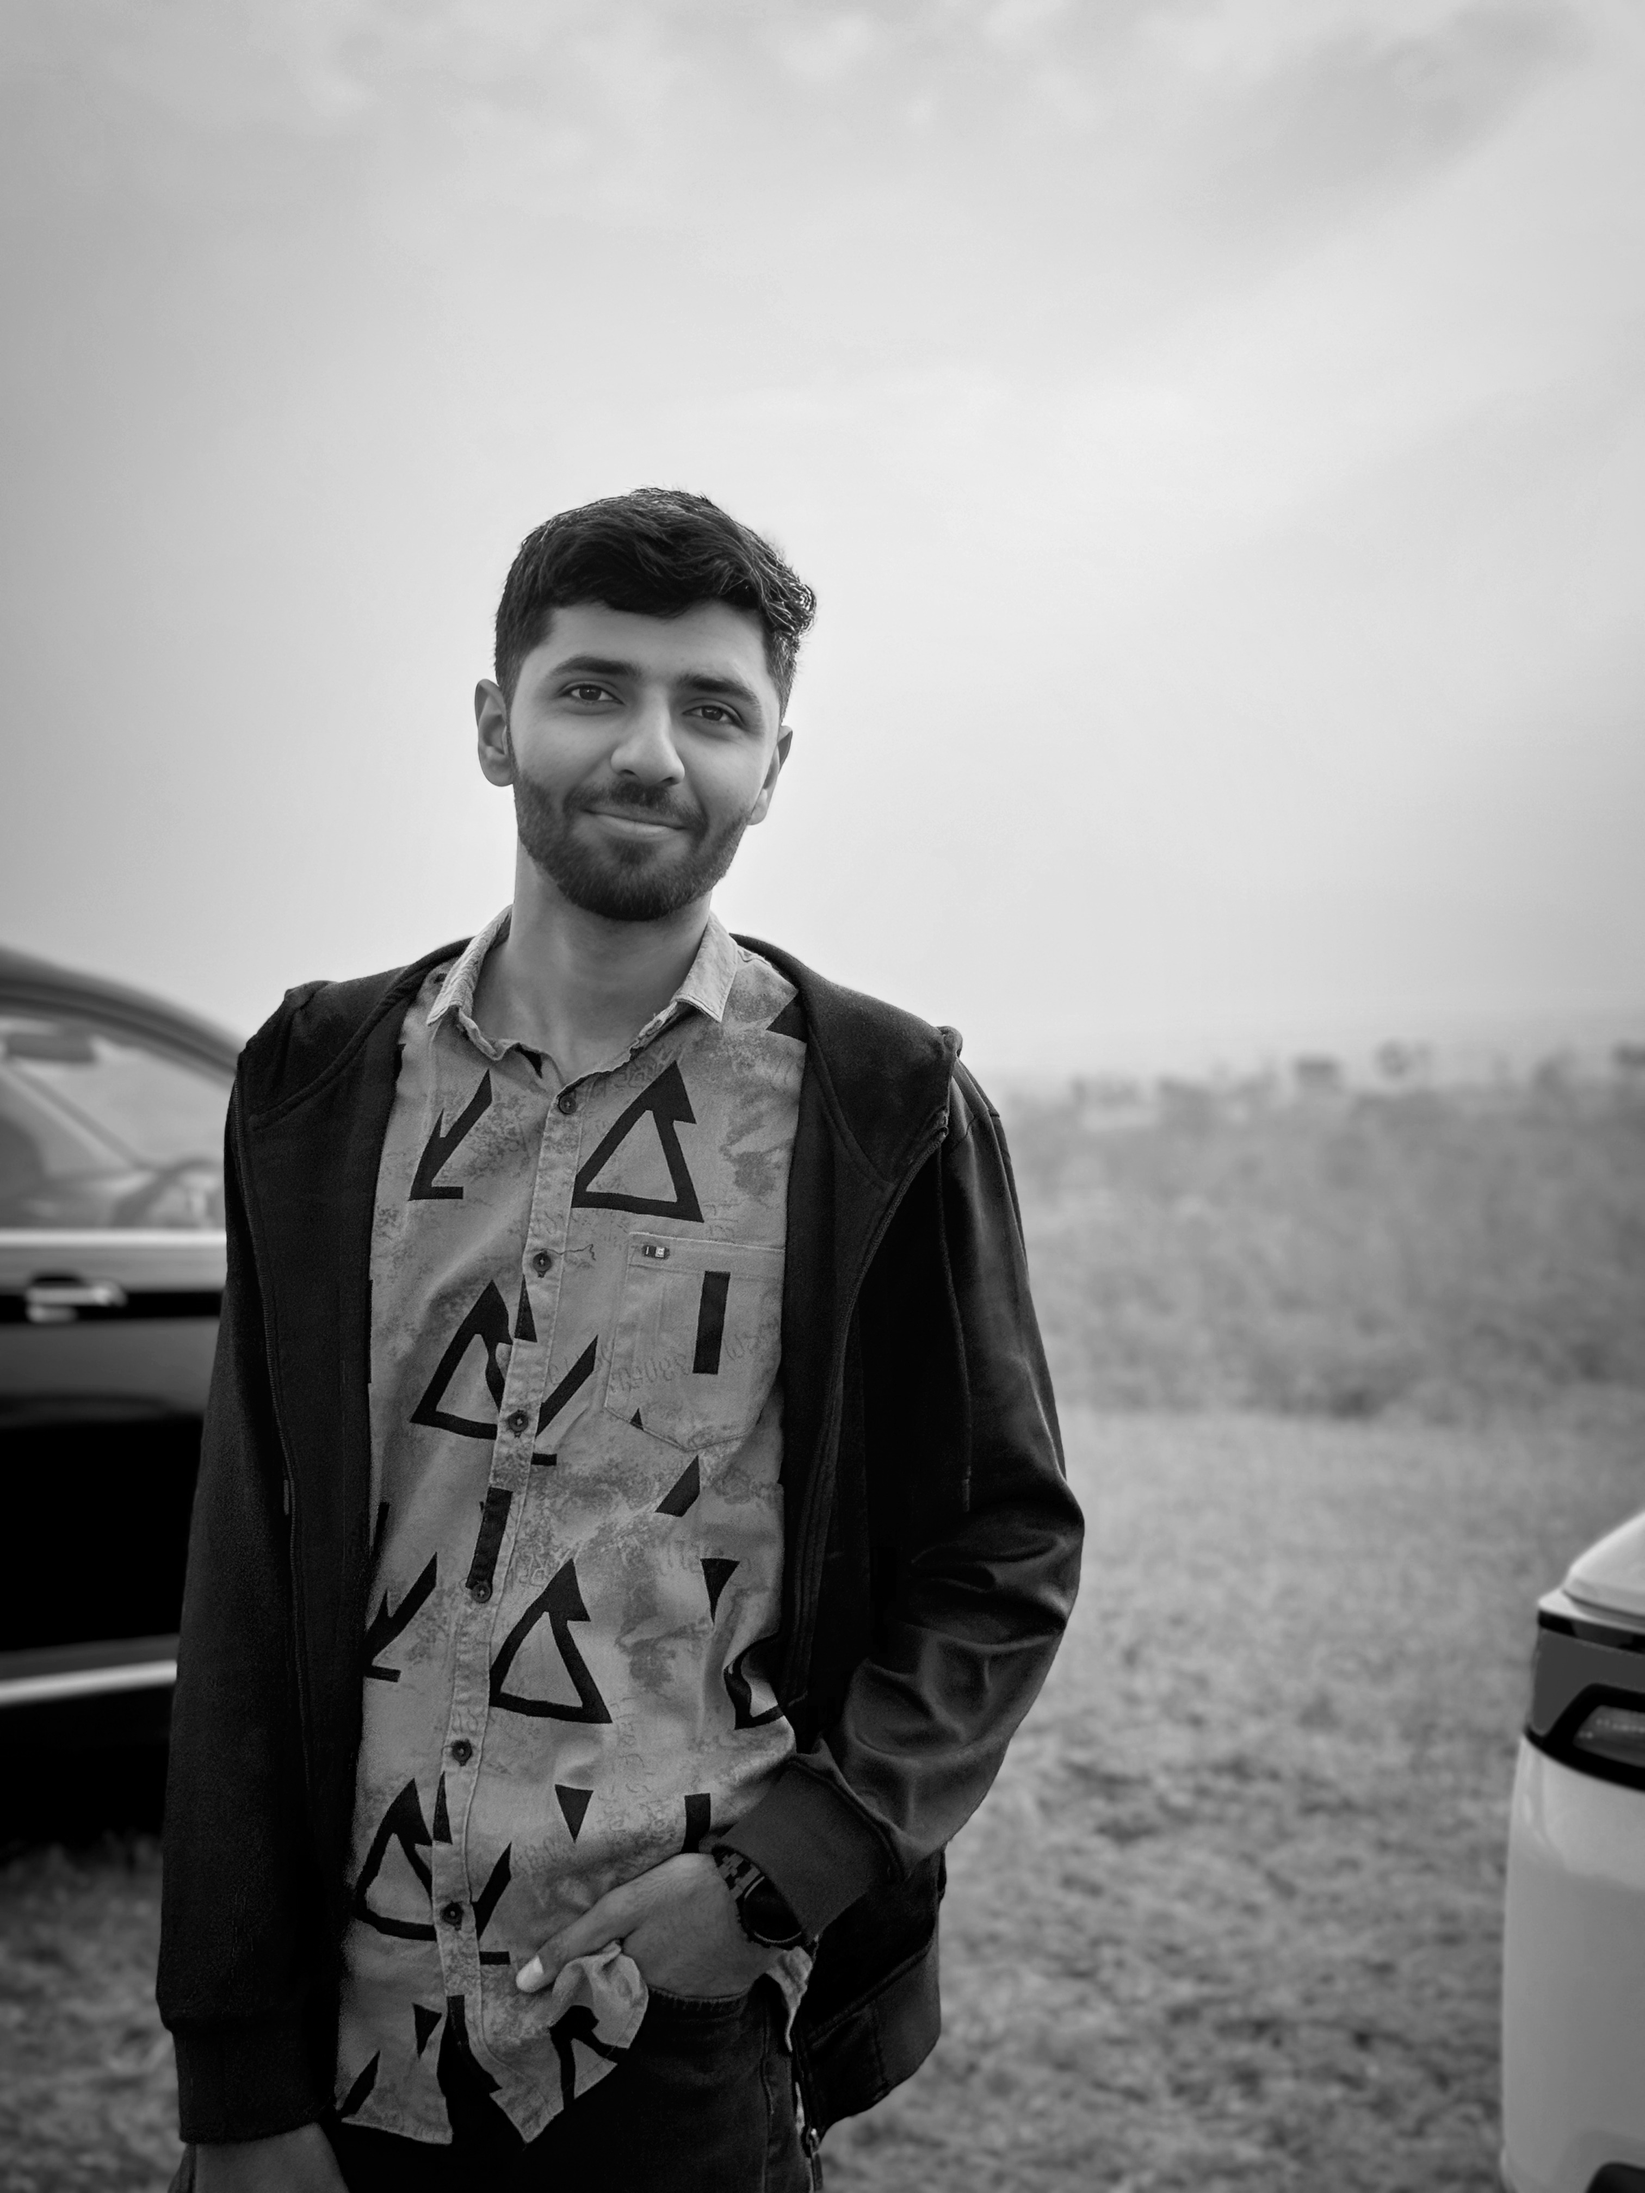
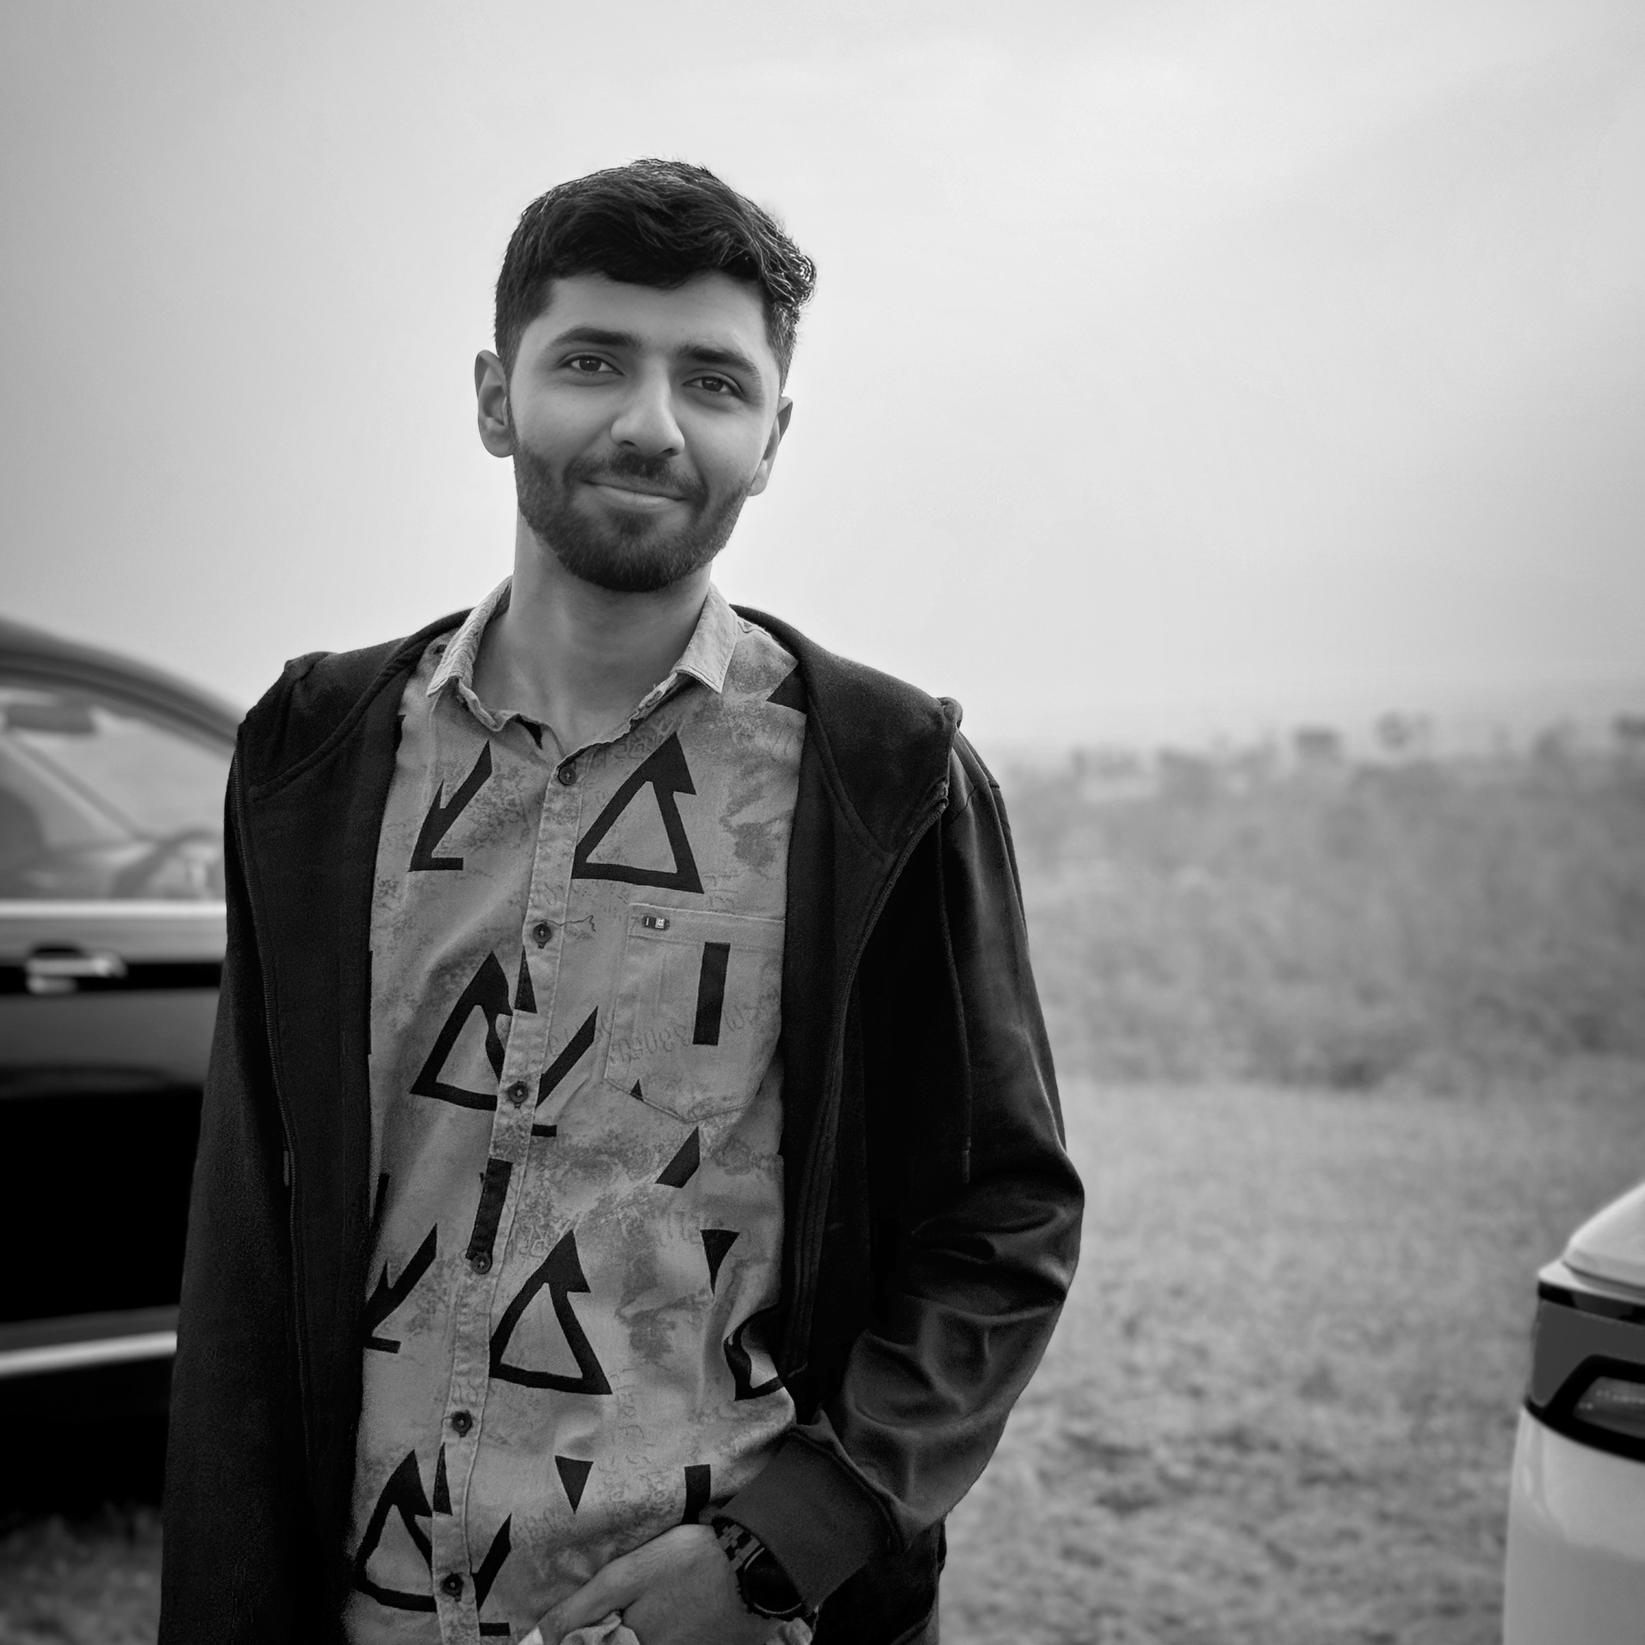
SJ Front inage changed

diff --git a/index.html b/index.html
@@ -62,7 +62,7 @@
 
                     <div class="hero flex items-center justify-between">
                         <div class="left">
-                            <img src="./Images/sanket pic-modified.webp" width="450px" height="450px">
+                            <img src="./Images/car.jpg" width="450px" height="450px">
                         </div>
                         <div class="right">
                             <h1>Sanket Jagtap</h1>
